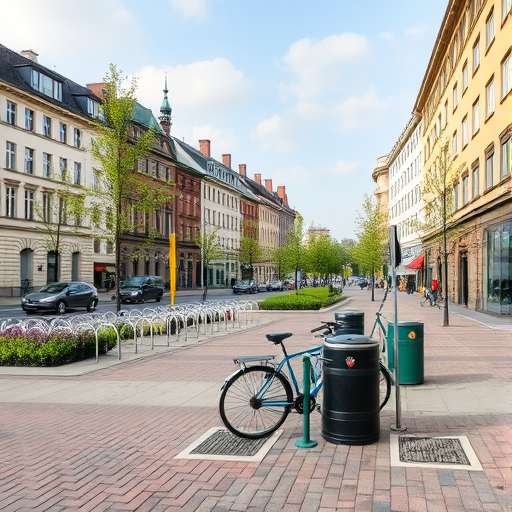
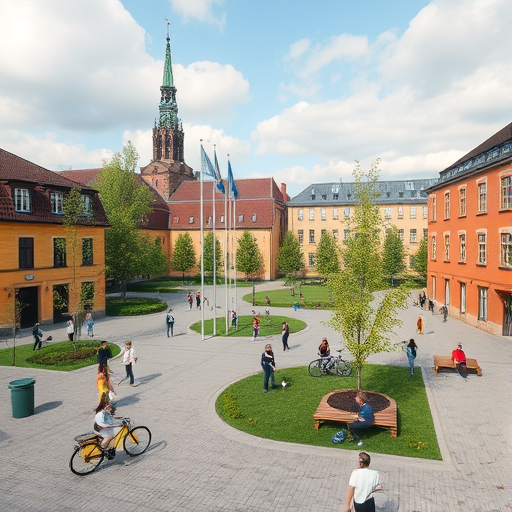
add: vlm helper functions, and new mode "describe_image"

diff --git a/src/main.py b/src/main.py
@@ -7,7 +7,7 @@ import pandas as pd
 import numpy as np
 from codecarbon import OfflineEmissionsTracker
 
-from llm import load_llm, load_translation_model, translate, translate_pdf, reason_about_visual_points, summarize_content
+from llm import load_llm, load_translation_model, translate, translate_pdf, reason_about_visual_points, summarize_content, load_vlm, describe_image_vlm
 from images import load_model_diffusers, generate_images_diffusers
 
 
@@ -81,7 +81,7 @@ def translate_kommunalomat(model, fname, output_dir, only_approved=True):
 
 if __name__ == '__main__':
     parser = argparse.ArgumentParser(description="Iterative processing of party programs.")
-    parser.add_argument("--mode", type=str, default='translate', choices=["translate", "summarize", "reason", "translate_results", "generate_images"], help="Processing mode")
+    parser.add_argument("--mode", type=str, default='translate', choices=["translate", "summarize", "reason", "translate_results", "generate_images", "describe_image"], help="Processing mode")
     parser.add_argument("--input_dir", type=str, default="programs", help="Directory containing party program pdfs")
     parser.add_argument("--output_dir", type=str, default="src/frontend/public/political_content_dortmund_2025", help="Output directory for results")
     parser.add_argument("--override", action='store_true', help="Override existing files")
@@ -93,7 +93,7 @@ if __name__ == '__main__':
     parser.add_argument("--guidance", type=float, default=0., help="Prompt guidance strength")
     parser.add_argument("--num_steps", type=int, default=5, help="Diffusion steps")
     parser.add_argument("--n_images", type=int, default=5, help="Number of images to create")
-    parser.add_argument("--vlm", type=str, default="Qwen/Qwen2-VL-7B-Instruct")
+    parser.add_argument("--vlm", type=str, default="Qwen/Qwen2-VL-7B-Instruct", help="Name of the vision language model for descriping images.")
     # TODO: Evaluate mode #########################
     args = parser.parse_args()
 
@@ -220,5 +220,44 @@ if __name__ == '__main__':
                             continue
                     print(f"Generating images for {save_path}")
                     generate_images_diffusers(model, input, save_path, args.guidance, args.num_steps, args.n_images)
+                    
+                                     
+    elif args.mode == "describe_image":
+        print('DESCRIBING IMAGES WITH VLM')
+        model, processor = load_vlm(args.vlm)
+        
+        for root, dirs, files in os.walk(args.output_dir):
+            for input_fname in files:
+                if os.path.basename(input_fname) == "prompt.txt":
+                    # Find corresponding image directory
+                    img_dir_name = f'img_{args.image_generator.split("/")[-1]}_guid{args.guidance}_nsteps{args.num_steps}'
+                    img_dir = os.path.join(root, img_dir_name)
+                    
+                    if not os.path.isdir(img_dir):
+                        continue
+                        
+                    # Output file for descriptions
+                    desc_file = os.path.join(root, f'images_description_{args.vlm.split("/")[-1]}.txt')
+                    if os.path.isfile(desc_file):
+                        if args.override:
+                            os.remove(desc_file)
+                        else:
+                            print(f"{desc_file} already exists, skipping.")
+                            continue
 
+                    print(f"Describing images in {img_dir}")
+                    descriptions = []
+                    
+                    # Process all images in the directory
+                    image_files = sorted([f for f in os.listdir(img_dir) if f.endswith(('.png', '.jpg', '.jpeg'))])
+                    for img_file in image_files:
+                        img_path = os.path.join(img_dir, img_file)
+                        print(f"  - Processing {img_file}...")
+                        description = describe_image_vlm(model, processor, img_path)
+                        descriptions.append(f"Image: {img_file}\nDescription: {description}\n")
+                    
+                    with open(desc_file, "w") as f:
+                        f.write("\n".join(descriptions))
+                    print(f"Saved descriptions to {desc_file}")
+                    
     tracker.stop()

diff --git a/src/llm.py b/src/llm.py
@@ -226,3 +226,33 @@ def impact_point_comparison_analysis(dirname, model_name="Qwen/Qwen3-30B-A3B"):
 
     print(print_str)
     return analysis
+
+def load_vlm(model_name: str = "Qwen/Qwen2-VL-7B-Instruct") -> tuple[transformers.Qwen2VLForConditionalGeneration, transformers.AutoProcessor]:
+    from transformers import Qwen2VLForConditionalGeneration, AutoProcessor
+    model = Qwen2VLForConditionalGeneration.from_pretrained(
+        model_name, torch_dtype="auto", device_map="auto"
+    )
+    processor = AutoProcessor.from_pretrained(model_name)
+    return (model, processor)
+
+def describe_image_vlm(model: transformers.Qwen2VLForConditionalGeneration, processor: transformers.AutoProcessor, image_path: str) -> str:
+    from PIL import Image
+    image = Image.open(image_path).convert("RGB")
+    prompt = "Analyze this image of a city. Describe the visible elements related to urban infrastructure, public transportation, green spaces, and building styles. Mention any specific details that suggest a futuristic or policy-driven change."
+    messages = [
+        {
+            "role":"user",
+            "content": [
+                {"type": "image", "image": image},
+                {"type": "text", "text": prompt}
+            ]
+        }
+    ]
+    text = processor.apply_chat_template(messages, tokenize=False, add_generation_prompt=True)
+    inputs = processor(text=[text], images=[image], padding=True, return_tensors="pt").to(model.device)
+    
+    generated_ids = model.generate(**inputs, max_new_tokens=512)
+    generated_ids_trimmed = [out_ids[len(in_ids):] for in_ids, out_ids in zip(inputs.input_ids, generated_ids)]
+    output_text = processor.batch_decode(generated_ids_trimmed, skip_special_tokens=True, clean_up_tokenization_spaces=False)
+    return output_text[0]
+
